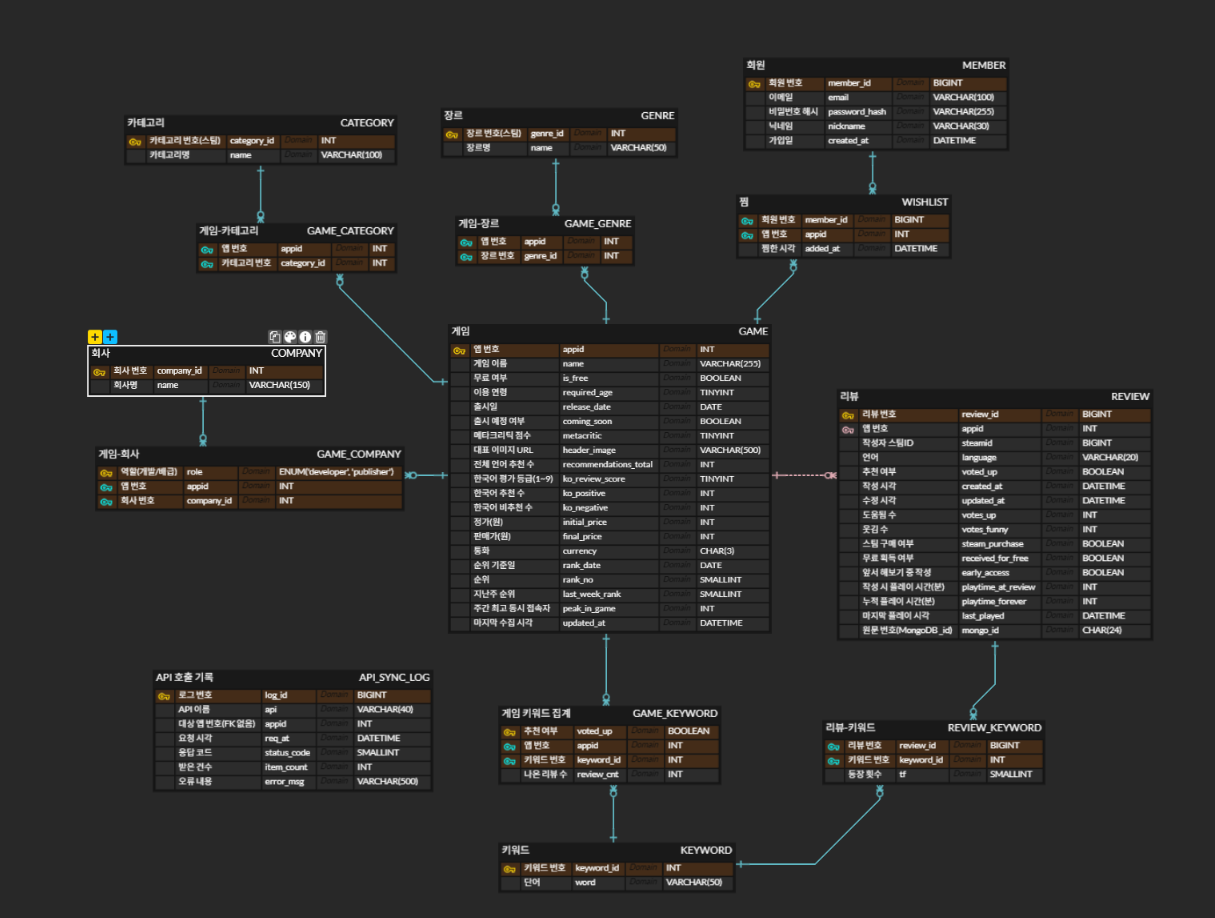
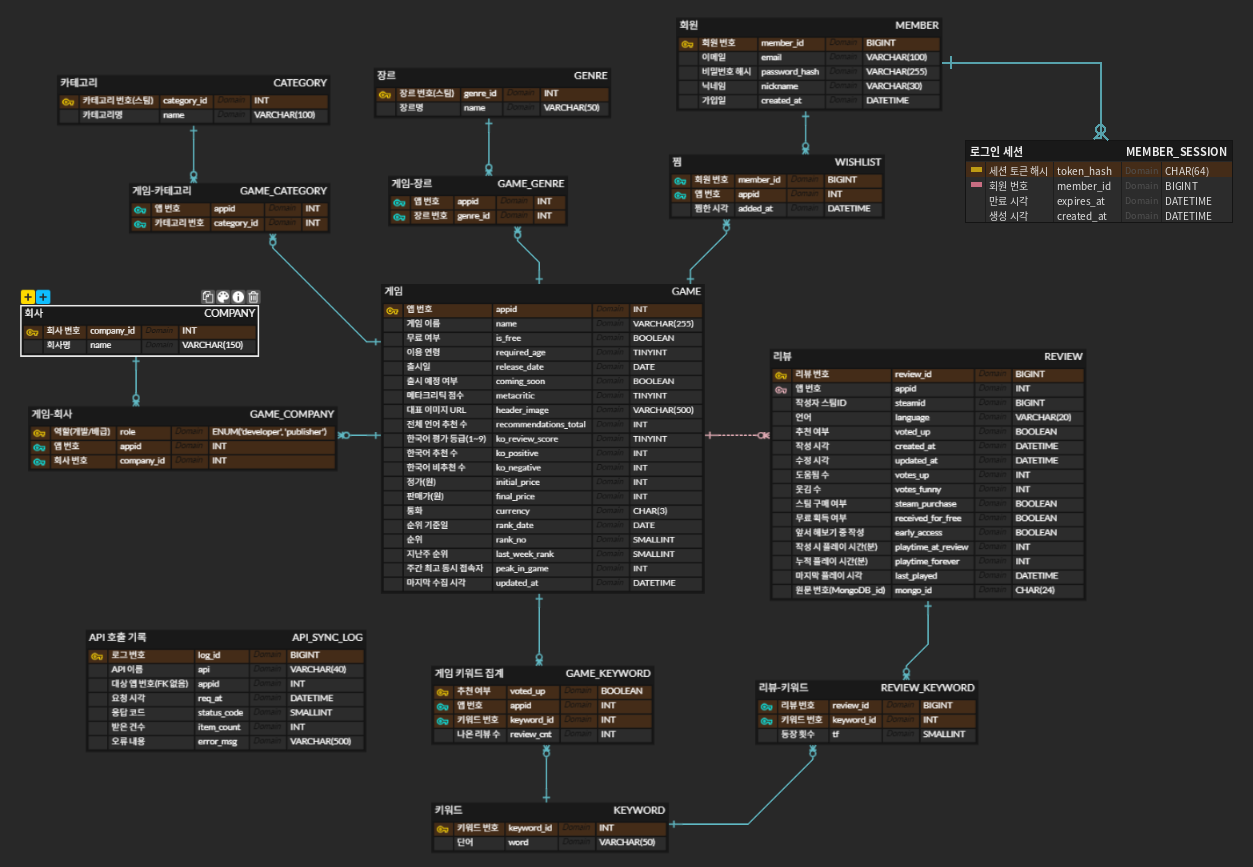
Add files via upload

diff --git a/README.md b/README.md
@@ -1,4 +1,3 @@
-[README.md](https://github.com/user-attachments/files/34724391/README.md)
 # PLAYLOG — 스팀 한국어 리뷰 키워드 분석 플랫폼
 
 > DB 프로젝트 · 팀원 김남국 · 한예찬 · 황시영
@@ -8,7 +7,7 @@
 
 ![PLAYLOG ERD](docs/images/erd.png)
 
-- **MySQL 테이블 14개 · 모두 3NF** — `GAME_KEYWORD`만 화면 속도를 위한 의도적 반정규화
+- **MySQL 테이블 15개** = 설계 14개(모두 3NF · `GAME_KEYWORD`만 화면 속도를 위한 의도적 반정규화) + 로그인 세션 `MEMBER_SESSION`
 - 왼쪽 열 = 논리 이름(한글) · 가운데 = 물리 이름 · 오른쪽 = MySQL 타입 (ERDCloud)
 - 실선 = 식별 관계 (부모 키가 자식 PK의 일부) · 점선 = 비식별 관계 (`GAME` → `REVIEW`)
 - 리뷰 **본문(비정형)** 은 MongoDB `review_text` 에 두고 `REVIEW.mongo_id` 로 1:1 연결
@@ -105,6 +104,12 @@ erDiagram
     varchar nickname "닉네임"
     datetime created_at "가입일"
   }
+  MEMBER_SESSION {
+    char token_hash PK "세션 토큰 해시(SHA-256)"
+    bigint member_id FK "회원 번호"
+    datetime expires_at "만료 시각"
+    datetime created_at "생성 시각"
+  }
   WISHLIST {
     bigint member_id PK,FK "회원 번호"
     int appid PK,FK "앱 번호"
@@ -131,6 +136,7 @@ erDiagram
   GAME ||--o{ GAME_KEYWORD : "appid"
   KEYWORD ||--o{ GAME_KEYWORD : "keyword_id"
   MEMBER ||--o{ WISHLIST : "member_id"
+  MEMBER ||..o{ MEMBER_SESSION : "member_id"
   GAME ||--o{ WISHLIST : "appid"
 ```
 </details>
@@ -139,10 +145,10 @@ erDiagram
 |---|---|
 | 게임 · 분류 | `GAME` · `GENRE` · `GAME_GENRE` · `CATEGORY` · `GAME_CATEGORY` · `COMPANY` · `GAME_COMPANY` |
 | 리뷰 · 키워드 | `REVIEW` · `KEYWORD` · `REVIEW_KEYWORD` · `GAME_KEYWORD`(반정규화) |
-| 회원 · 수집 | `MEMBER` · `WISHLIST` · `API_SYNC_LOG`(FK 없는 로그) |
+| 회원 · 수집 | `MEMBER` · `WISHLIST` · `MEMBER_SESSION`(로그인 세션) · `API_SYNC_LOG`(FK 없는 로그) |
 | 뷰 | `V_GAME_SUMMARY` — 할인율 · 긍정률 · 마지막 리뷰 시각 (계산값은 저장하지 않음) |
 
-설계 과정: 요구사항 명세(19문장) → 엔티티 8 · 관계 7 (E-R 다이어그램) → 비정규형 → 1NF → 2NF → 3NF → 물리 설계(타입 · 도메인 · 인덱스)
+설계 과정: 요구사항 명세(19문장) → 엔티티 8 · 관계 7 (E-R 다이어그램) → 비정규형 → 1NF(8개) → 2NF(13개) → 3NF(13개) → 물리 설계(반정규화 1 + 로그인 세션 1 = 15개 · 타입 · 도메인 · 인덱스)
 
 ---
 

diff --git a/backend/db/README.md b/backend/db/README.md
@@ -14,7 +14,7 @@
 | `schema.sql` | v2 1~5절 (테이블 14개 + 뷰) + 구현용 `MEMBER_SESSION` · `IF NOT EXISTS`라 여러 번 실행해도 안전 |
 | `sample-data.sql` | v2 6절 예시 데이터 (Stardew Valley) |
 
-### 테이블 (14개 + 구현용 1개)
+### 테이블 15개 (설계 14개 + 로그인 세션 1개)
 
 | 테이블 | 채우는 스크립트 |
 |---|---|
@@ -25,7 +25,7 @@
 | GAME_KEYWORD (의도적 반정규화) | `keywords:aggregate` |
 | MEMBER · WISHLIST | 웹 회원가입 · 찜 API |
 | API_SYNC_LOG | 모든 Steam API 호출이 자동 기록 |
-| **MEMBER_SESSION** (v2에 없음, 구현용) | 로그인 쿠키 토큰(SHA-256) · 24시간 만료 |
+| **MEMBER_SESSION** (구현할 때 추가 · ERD 포함) | 로그인 쿠키 토큰(SHA-256) · 24시간 만료 |
 
 뷰 `V_GAME_SUMMARY`: 할인율 · 한국어 긍정률 · 마지막 리뷰 시각을 계산해서 보여줌 (메인 목록 API가 사용).
 
